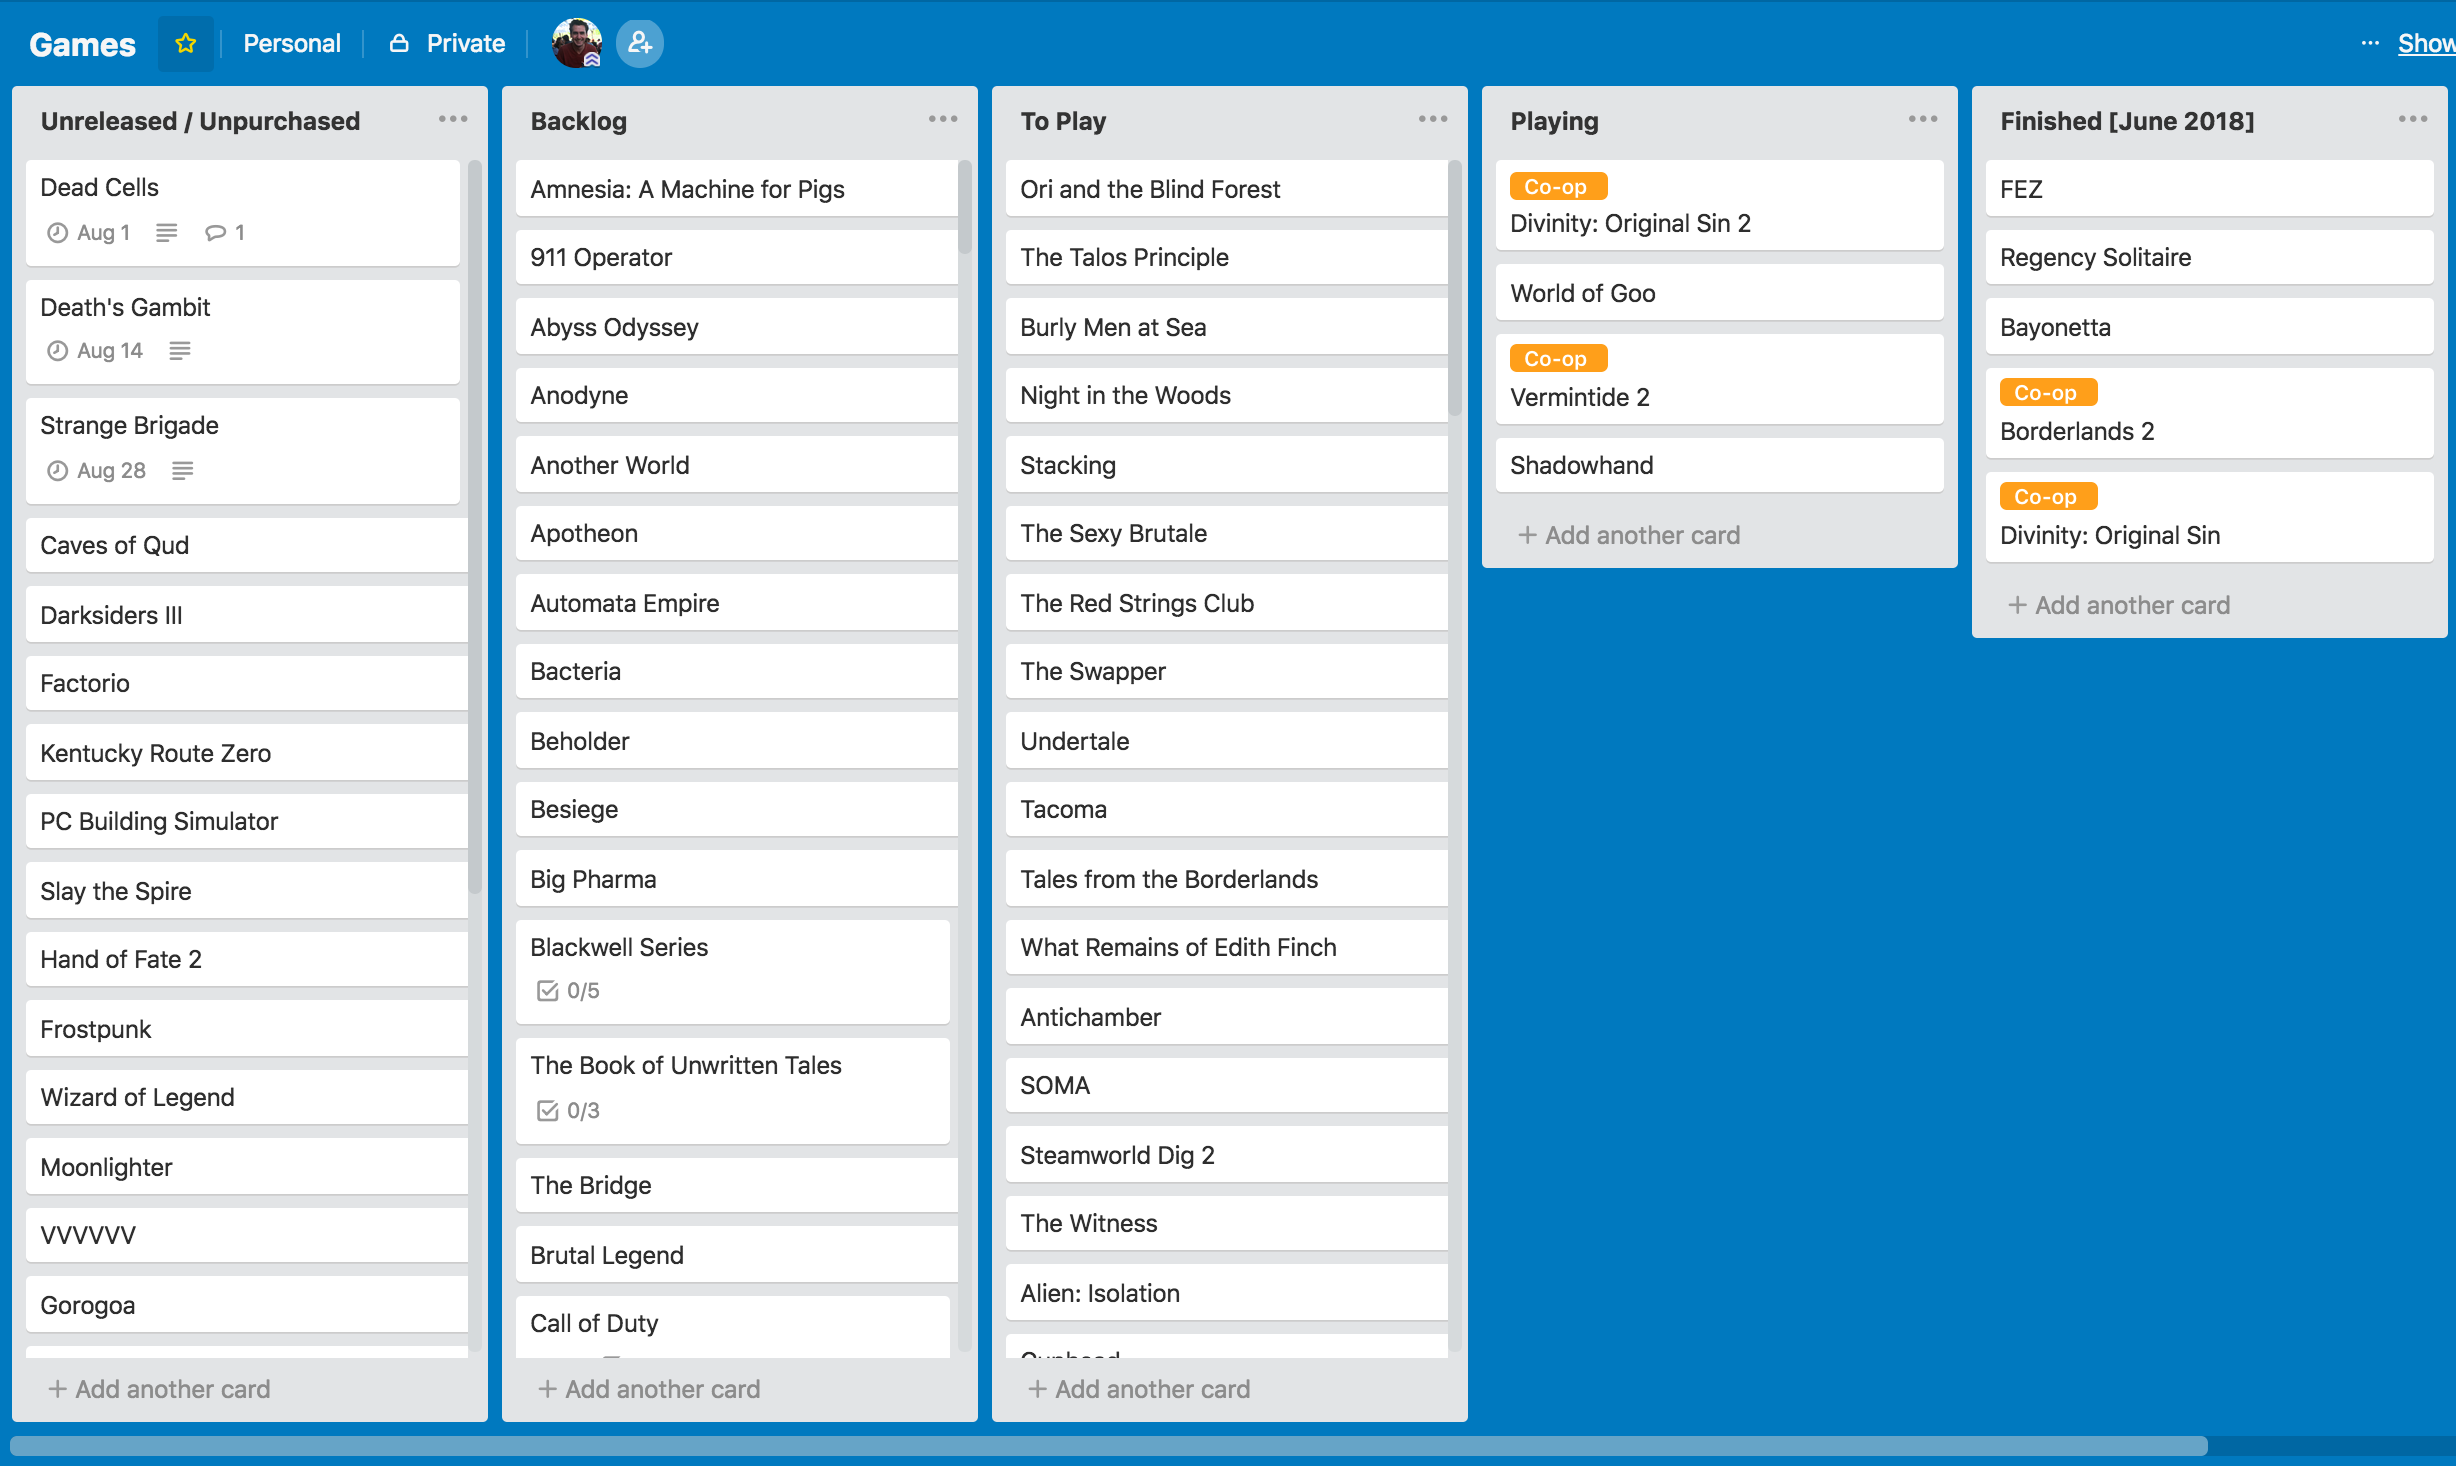
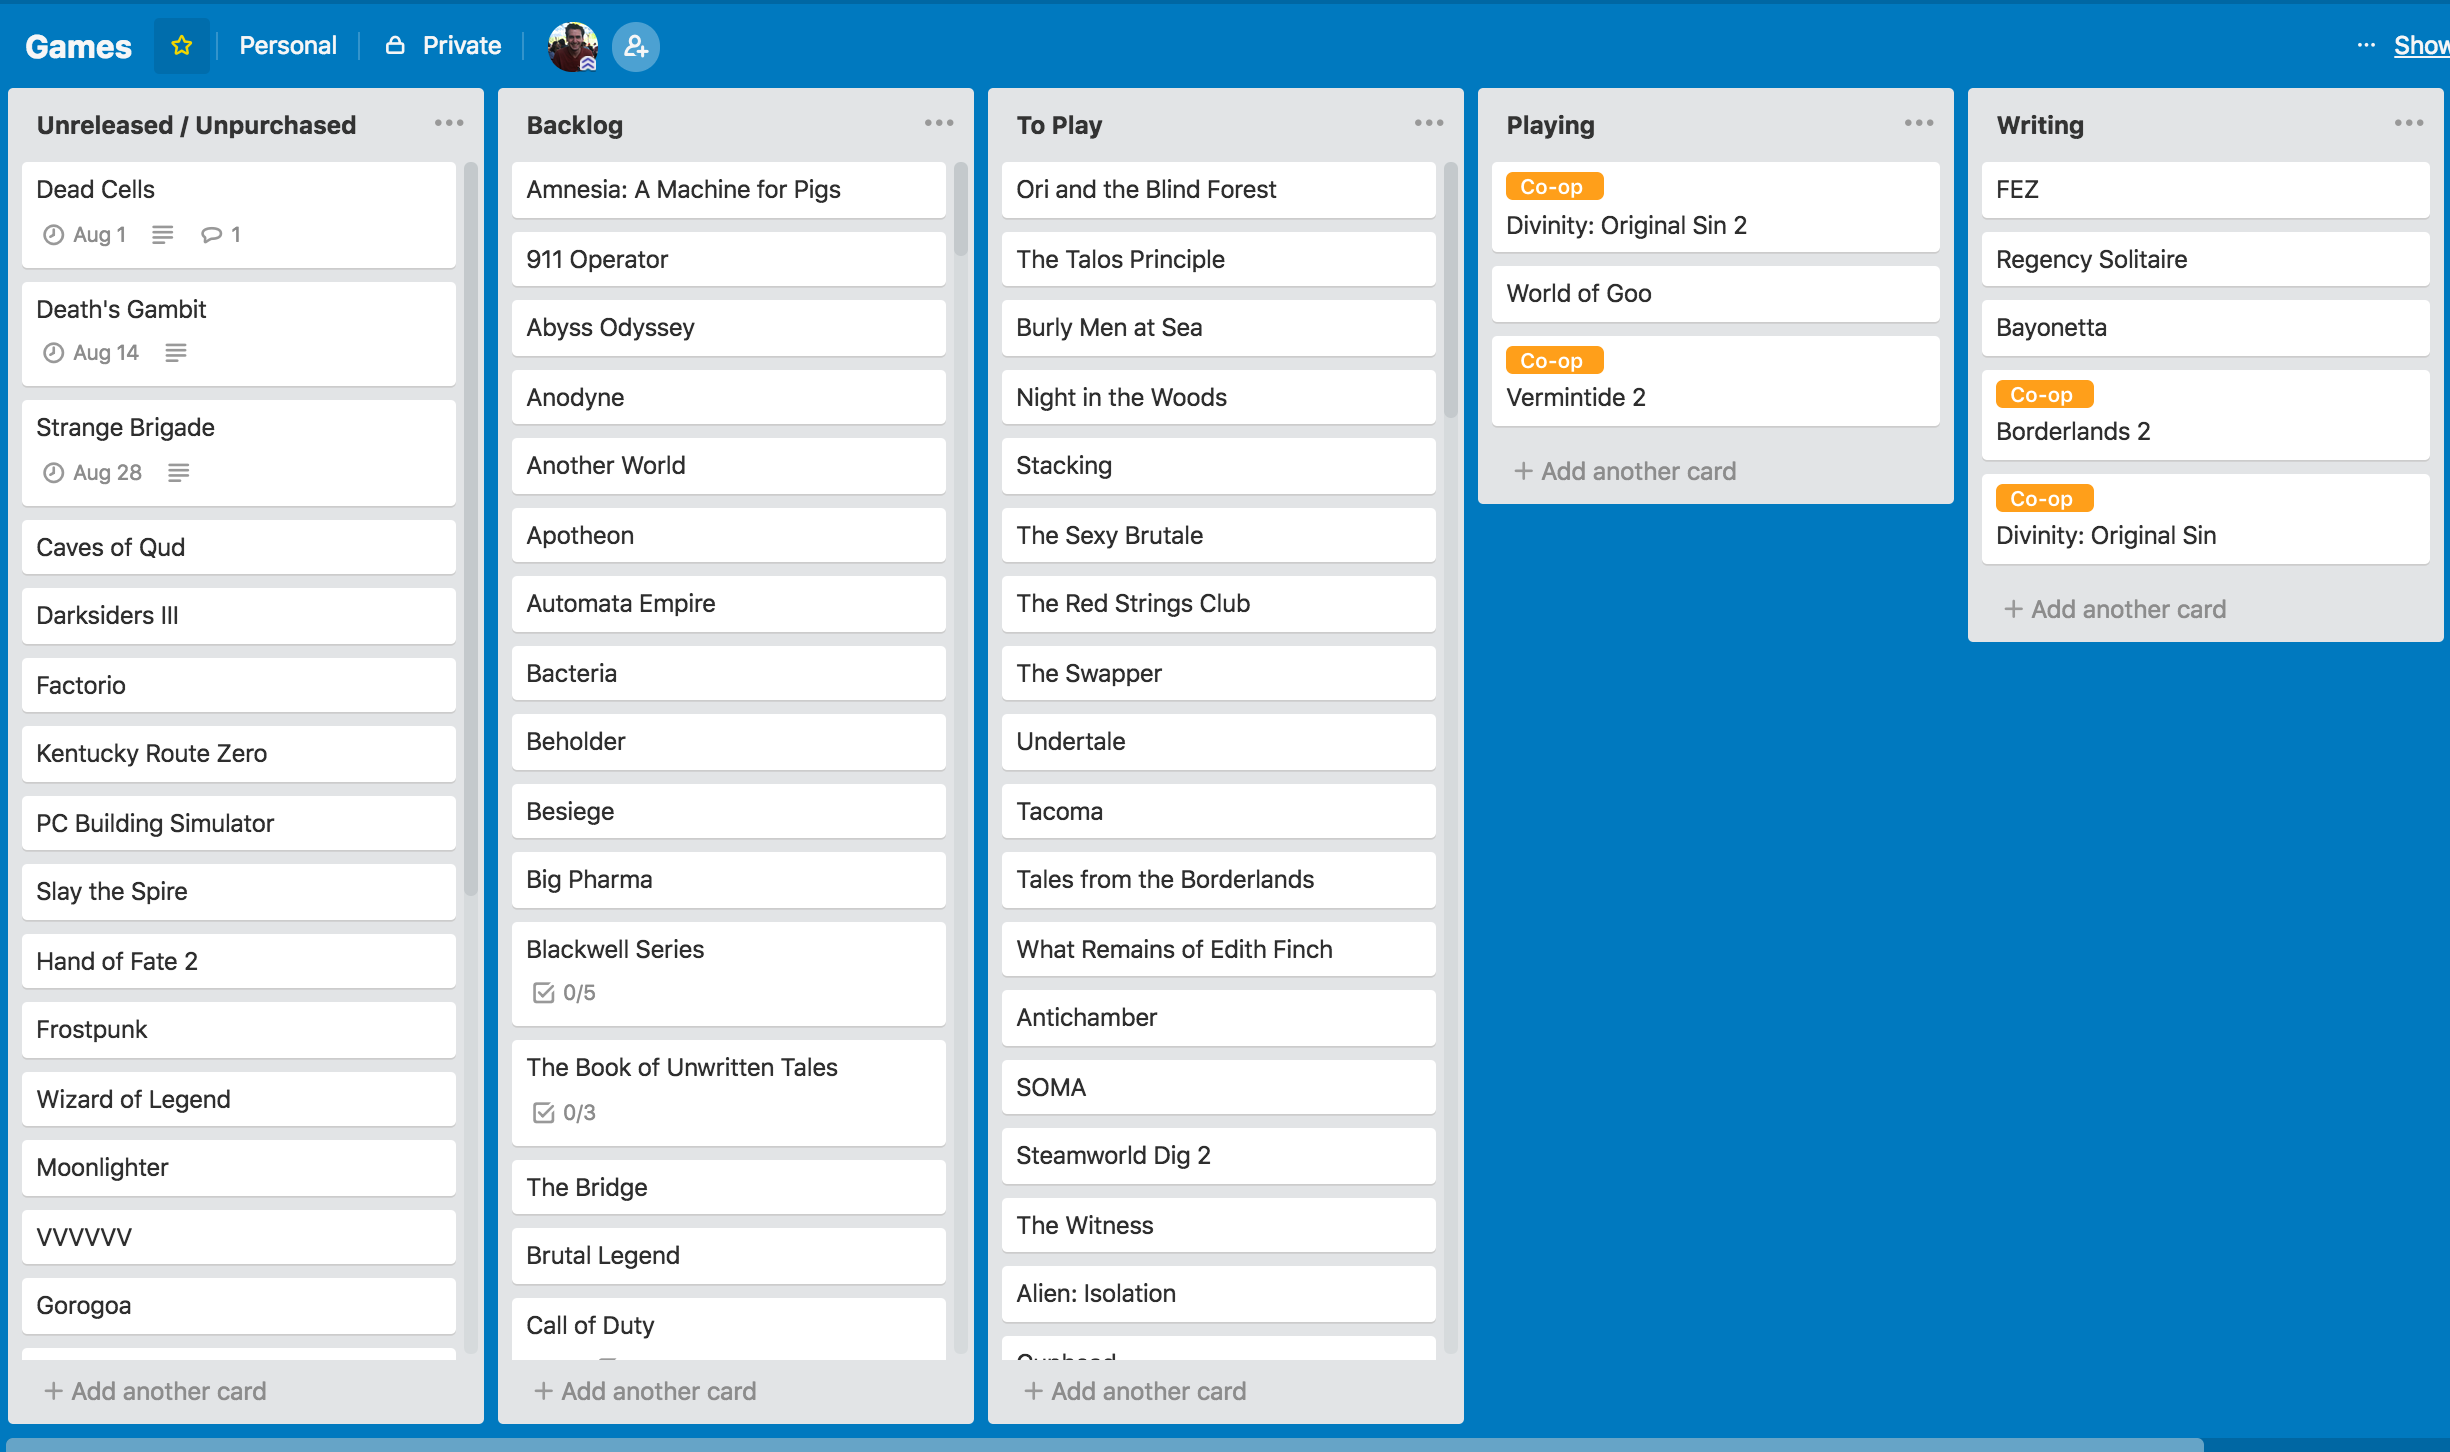
ALL DONE HERE WE GO

Changed region(s): [[0.0, 0.0, 1.0, 1.0], [0.8065, 0.062, 0.9306, 0.093], [0.4033, 0.062, 0.4653, 0.093]]

diff --git a/_posts/2018-07-02-optimizing-fun.md b/_posts/2018-07-02-optimizing-fun.md
@@ -1,7 +1,6 @@
 ---
 layout: post
 title: Optimizing Fun
-published: false
 ---
 
 I,
@@ -10,14 +9,15 @@ have an obscenely large backlog of games.
 
 It began many years ago
 when I received _The Orange Box_ as a gift.
-_Half-Life 2_ demanded
-to be played through something called "Steam",
+_Half-Life 2_ demanded to be played
+through something called "Steam",
 and I begrudgingly installed the software.
 
-"There. Are you happy?" I asked _Half-Life 2_.
-"Yes," it said.
-"Thank you for selling your soul to Valve,
-we will take good care of it."
+"There," I said.
+"Are you happy?"
+"Yes," said Steam.
+"Thank you for selling your soul to me,
+I will take good care of it."
 
 Since then,
 the games have piled up with alarming velocity.
@@ -28,8 +28,7 @@ the alluring promise of something **new** and **different**.
 
 I have succumbed to many of these temptations,
 and the sheer weight of my backlog often paralyzes me.
-When I sit down
-to play a game,
+When I sit down to play a game,
 I am pursued by a disturbing doubt:
 is this **really** the most fun I could be having right now?
 
@@ -42,15 +41,16 @@ to actually consume it all.
 Even if you don't share my exact affliction,
 you likely have a problem with some other medium.
 Have you read every book you own?
-Or worse: every book you **want** to read?
+Or worse:
+every book you **want** to read?
 Ghastly.
 
 When I hit the weekend,
 I often wring my hands,
 knowing that free time is **special**.
-And there is a tremendous urge
+And there's a tremendous urge
 to maximize my use of it.
-I am ashamed to admit
+I'm ashamed to admit
 how much time I've spent scrolling through my Steam library,
 hoping to select The Best Game for the eve.
 
@@ -58,17 +58,16 @@ Fortunately for myself and my sanity,
 I work in tech,
 an industry filled with people
 who like doing things efficiently.
-These engineers and product managers have developed tools and processes
-to Prioritize Things,
-and I,
-in a fit of productivity,
+These engineers and product managers have developed
+tools and processes to Prioritize Things,
+and I, in a fit of productivity,
 have applied these processes
 to all the media I'm trying to consume.
 
 Behold!
 My Trello board for games.
 
-![Are you not entertained?]({{ "/assets/games-trello.png" | absolute_url }})
+![trello-board][]
 
 ## The System
 
@@ -100,21 +99,23 @@ A list of games I'm currently playing.
 I try to keep this list as short as possible
 to minimize [work in progress](https://www.atlassian.com/agile/kanban/wip-limits) and [context switching](https://blog.trello.com/why-context-switching-ruins-productivity).
 
-### Completed This Month
+### Writing
 
-Games I've finished this month.
 My sister observed
 that I'm probably not processing my feelings on a game
 unless I write about it,
-and she's absolutely right.
-So I'll probably be adding another list
-for completed games that are being analyzed.
+and she's absolutely right!
+So these are games I've finished
+and am **processing**.
+I'll be adding another list
+to capture games that are Truly Done.
 
 ## The Metrics
 
-The "To Play" list is the most important one.
-I rank games in this list by two metrics:
-**quality** and **time**.
+The order of games in each list is arbitrary,
+**EXCEPT** for the "To Play" list,
+where games are ranked by two metrics:
+**Quality** and **Time**.
 
 ### Quality
 
@@ -134,27 +135,28 @@ Yes!
 There's a whole list!
 We have a finite amount of time on this planet,
 so spending it on mediocrity makes me barf.
-I want quality games to bubble to the top of a list.
+I want Quality Games to bubble to the top of a list.
 Then,
 without thinking,
 I can pluck a game from the top
 and know I'm getting a Quality Game.
 
-So what **is** a Quality Qame?
-This is absolutely the title of another blog post,
+So what **is** a Quality Game?
+This is absolutely another blog post,
 but for now, be content with some unexplained bullet points.
 
 _A game is high quality if it..._
 
-- keeps me in a [flow state](https://www.gamasutra.com/view/feature/166972/cognitive_flow_the_psychology_of_.php) for most of its duration.
-- causes an emotional reaction.
-- self-contained and doesn't require external sources like wikis or guides.
+- consistently keeps me in a [flow state](https://www.gamasutra.com/view/feature/166972/cognitive_flow_the_psychology_of_.php).
+- affects me emotionally.
+- doesn't require me to use wikis or guides.
 
-Without actually playing a game,
+Without actually **playing** a game,
 it can be tricky to know
 whether it satisfies any of these conditions.
-So (unfortunately) I have to rely on trusted sources
-like [Rock, Paper, Shotgun](https://www.rockpapershotgun.com/).
+So (unfortunately) I have to rely on trustworthy sources
+like [Rock, Paper, Shotgun](https://www.rockpapershotgun.com/)
+and untrustworthy sources like friends.
 
 ### Time
 
@@ -164,12 +166,12 @@ or push past 100 with a behemoth like _Skyrim_.
 In my experience,
 the most impactful games are between 8-12 hours,
 or about the length of a season of _Game of Thrones_.
-Long games are more prone to bloating or padding --
-you'll likely have to grind or farm at some point.
-These are design smells and wastes of time.
 
-This doesn't mean that long games are **off** the table;
-they should just be **further down** the table.
+Long games are more prone to padding --
+you'll likely have to grind or farm at some point,
+both of which are design smells and wastes of my time.
+This doesn't mean long games are **off** the table;
+they're just **further down** the table.
 This is apparently a [very French way](https://spoonuniversity.com/lifestyle/10-ways-the-french-view-food-differently-than-americans) of consuming things.
 
 So! This metric really boils down to two rules:
@@ -183,17 +185,27 @@ The first rule eliminates games that occur in matches, sessions, or runs.
 This means games like _League of Legends_, _Civilization_, and every roguelike are at an immediate disadvantage.
 Sites like [HowLongToBeat](https://howlongtobeat.com/) help me get a sense of the time required before I commit to anything.
 
-# Onward!
+## Housekeeping
 
-So that's the system!
-I am sure it's broken!
+So that's my system!
+I am sure it's broken
+in some way I haven't considered.
 But so far it's been helping me make decisions,
 and that, at least, is a win.
 
-**Every Monday morning**,
+Since this is my first blog post in a while,
+I should briefly talk about timing and content.
+**Every Sunday night at a random time**,
 I'll be publishing a new blog post.
-Most of these will be about games or other media,
+You can either stay up late
+and read it with bleary eyes,
+or you can get a solid night's sleep
+and read it with coffee.
+
+Most of these blog posts are going to be about games or other media,
 but there will also be occasional detours into other subjects,
 depending on my mood or attention span.
+If you don't like games or reading about them,
+then go read my other stories and stop complaining!
 
-UNTIL THEN.
+[trello-board]: {{ "/assets/games-trello.png" | absolute_url }}
